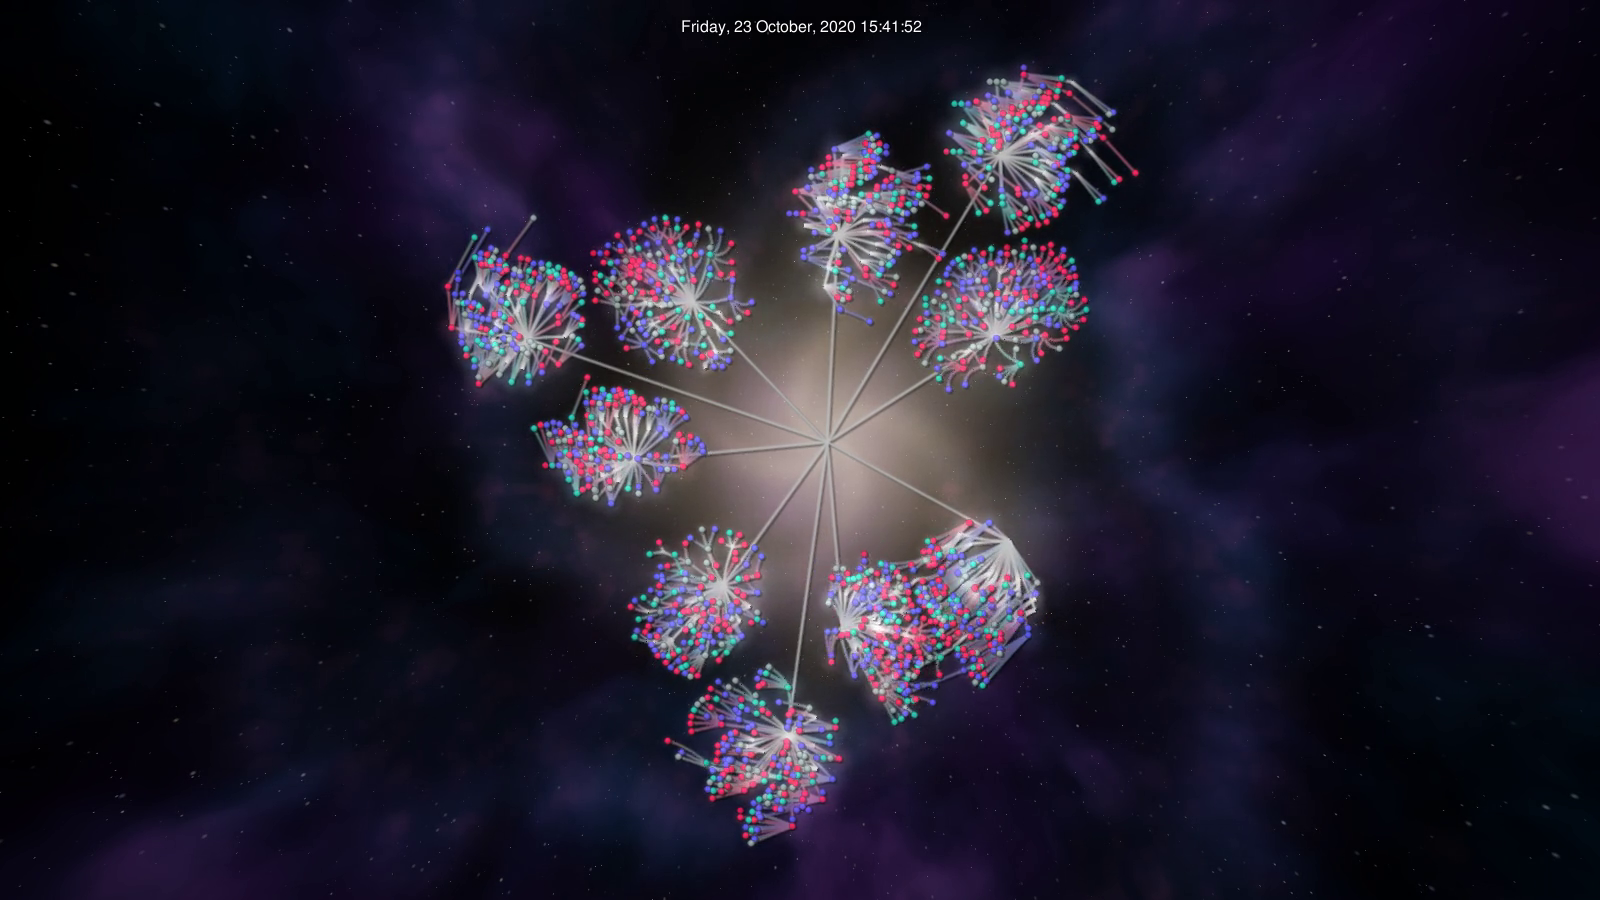
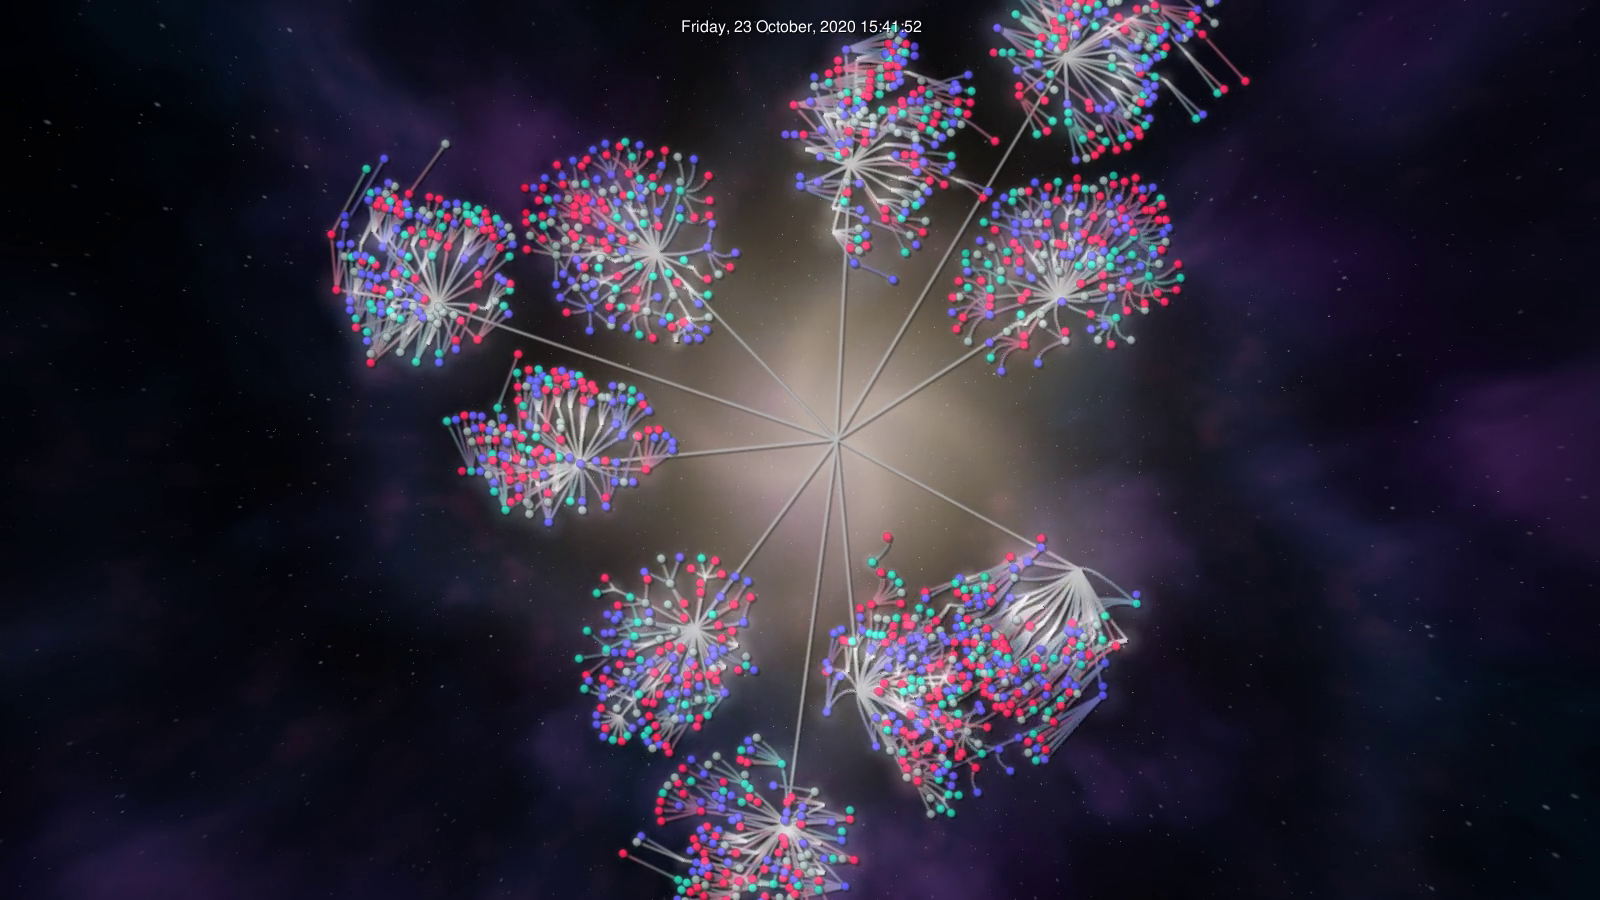
Remove orbit/tilt 3D view; keep top-down nebula and arm layout
Right-drag rotates the tree again. Drops --galaxy-tilt/--galaxy-orbit, the
tilted screenshots and the tilt GIF.

diff --git a/src/src/gource_settings.cpp b/src/src/gource_settings.cpp
@@ -119,8 +119,6 @@ if(extended_help) {
     printf("  --galaxy-pull FLOAT      How hard dirs are pulled onto an arm (default: 1.5)\n");
     printf("  --galaxy-width FLOAT     Half width of an arm in radians (default: 0.28)\n");
     printf("  --galaxy-spin FLOAT      Rotation of the arms, radians per second (default: 0)\n");
-    printf("  --galaxy-tilt DEGREES    Start tilted away from top-down (right-drag orbits and tilts)\n");
-    printf("  --galaxy-orbit DEGREES   Start orbited around the galaxy\n");
     printf("  --nebula-brightness FLOAT  Brightness of the background (default: 1.0)\n");
     printf("  --no-galaxy              Use the normal Gource layout\n");
     printf("  --no-nebula              Use the normal flat background\n\n");
@@ -307,8 +305,6 @@ GourceSettings::GourceSettings() {
     arg_types["galaxy-pull"]       = "float";
     arg_types["galaxy-width"]      = "float";
     arg_types["galaxy-spin"]       = "float";
-    arg_types["galaxy-tilt"]       = "float";
-    arg_types["galaxy-orbit"]      = "float";
     arg_types["nebula-brightness"] = "float";
 
     arg_types["bloom-intensity"]   = "float";
@@ -1038,20 +1034,6 @@ void GourceSettings::importGourceSettings(ConfFile& conffile, ConfSection* gourc
         if(!entry->hasValue()) conffile.entryException(entry, "specify galaxy-spin (float)");
 
         gGalaxy.spin = entry->getFloat();
-    }
-
-    if((entry = gource_settings->getEntry("galaxy-tilt")) != 0) {
-
-        if(!entry->hasValue()) conffile.entryException(entry, "specify galaxy-tilt (degrees)");
-
-        gGalaxy.pitch = entry->getFloat();
-    }
-
-    if((entry = gource_settings->getEntry("galaxy-orbit")) != 0) {
-
-        if(!entry->hasValue()) conffile.entryException(entry, "specify galaxy-orbit (degrees)");
-
-        gGalaxy.yaw = entry->getFloat();
     }
 
     if((entry = gource_settings->getEntry("nebula-brightness")) != 0) {

diff --git a/src/src/galaxy.cpp b/src/src/galaxy.cpp
@@ -20,8 +20,6 @@ GalaxyConfig::GalaxyConfig() {
     spin       = 0.0f;
     brightness = 1.0f;
     time       = 0.0f;
-    yaw        = 0.0f;
-    pitch      = 0.0f;
 }
 
 //---------------------------------------------------------------- layout
@@ -95,8 +93,8 @@ static const char* GALAXY_VERT =
     "void main() { gl_Position = gl_Vertex; }\n";
 
 // A volume raymarched through the real Gource camera. The galaxy lies in the
-// z = 0 plane of the world, the same plane the tree is laid out in, so orbiting
-// or tilting the camera shows a proper 3D disc with a bulge and dust lanes,
+// z = 0 plane of the world, the same plane the tree is laid out in, so a camera looking down on it
+// sees a disc with a bulge and dust lanes,
 // and the arms stay under the directories that follow them.
 static const char* GALAXY_FRAG =
     "#version 120\n"
@@ -157,7 +155,7 @@ static const char* GALAXY_FRAG =
     "    vec3 rd  = normalize(uFwd + ndc.x * uTan.x * uRight + ndc.y * uTan.y * uUp);\n"
     "    vec3 ro  = uCam - vec3(uGC, 0.0);\n"
     "\n"
-    "    // sky: distant gas and stars, fixed in direction so they hold still while you orbit\n"
+    "    // sky: distant gas and stars, fixed in direction so they hold still as the camera moves\n"
     "    float g1 = fbm5(rd * 2.2 + 3.0);\n"
     "    float g2 = fbm5(rd * 4.0 + g1 * 1.6 + 11.0);\n"
     "    vec3 col = vec3(0.0);\n"

diff --git a/src/src/gource.cpp b/src/src/gource.cpp
@@ -364,13 +364,6 @@ void Gource::mouseMove(SDL_MouseMotionEvent *e) {
         //if right mouse button is held while dragging, rotate tree instead of
         //moving camera
 
-        //galaxy mode: right drag orbits and tilts the camera around the galaxy
-        if(rightmouse && gGalaxy.layout) {
-            gGalaxy.yaw   += mag.x * 0.35f;
-            gGalaxy.pitch  = std::max(-80.0f, std::min(80.0f, gGalaxy.pitch + mag.y * 0.35f));
-            return;
-        }
-
         if(rightmouse) {
             manual_rotate = true;
             if(fabs(mag.x) > fabs(mag.y)) {
@@ -2443,10 +2436,7 @@ void Gource::draw(float t, float dt) {
         return;
     }
 
-    //the orbit/tilt is applied after the frustum is built, so widen it while tilted
-    float frustum_fov = std::min(150.0f, camera.getFOV() + fabsf(gGalaxy.pitch) * 1.2f);
-
-    Frustum frustum(camera.getPos(), camera.getTarget(), camera.getUp(), frustum_fov, camera.getZNear(), camera.getZFar());
+    Frustum frustum(camera.getPos(), camera.getTarget(), camera.getUp(), camera.getFOV(), camera.getZNear(), camera.getZFar());
 
     trace_time = SDL_GetTicks();
 

diff --git a/src/src/zoomcamera.cpp b/src/src/zoomcamera.cpp
@@ -16,7 +16,6 @@
 */
 
 #include "zoomcamera.h"
-#include "galaxy.h"
 
 ZoomCamera::ZoomCamera() {
 }
@@ -80,17 +79,6 @@ void ZoomCamera::lookAt(const vec3& target) {
 
 void ZoomCamera::focus() {
     display.mode3D(fov, znear, zfar);
-
-    //orbit and tilt around the point the camera looks at. This acts in view
-    //space, so it has to go in before the look-at matrix.
-    if(gGalaxy.yaw != 0.0f || gGalaxy.pitch != 0.0f) {
-        float d = glm::length(pos - target);
-
-        glTranslatef(0.0f, 0.0f, -d);
-        glRotatef(gGalaxy.pitch, 1.0f, 0.0f, 0.0f);
-        glRotatef(gGalaxy.yaw,   0.0f, 0.0f, 1.0f);
-        glTranslatef(0.0f, 0.0f, d);
-    }
 
     look();
 }

diff --git a/src/src/galaxy.h b/src/src/galaxy.h
@@ -20,8 +20,6 @@ struct GalaxyConfig {
     float spin;        // arm rotation speed (radians per second)
     float brightness;  // nebula brightness multiplier
     float time;        // accumulated simulation time
-    float yaw;         // camera orbit around the galaxy, degrees
-    float pitch;       // camera tilt away from top-down, degrees
 
     GalaxyConfig();
 };

diff --git a/README.md b/README.md
@@ -2,15 +2,13 @@
 
 <p align="center">
   <b>Your repository as a spiral galaxy.</b><br>
-  A fork of <a href="https://gource.io">Gource 0.53</a> with a raymarched 3D nebula background,<br>
-  spiral-arm directory layout, and a camera you can orbit and tilt.
+  A fork of <a href="https://gource.io">Gource 0.53</a> with a procedural nebula background<br>
+  and a spiral-arm directory layout.
 </p>
 
-<p align="center"><img src="docs/images/demo.gif" width="640" alt="Gource Galaxy tilting over a project"></p>
+<p align="center"><img src="docs/images/demo.gif" width="640" alt="Gource Galaxy growing a project"></p>
 
-| Top-down | Tilted 55° | Nearly edge-on |
-|---|---|---|
-| <img src="docs/images/top.png"> | <img src="docs/images/tilt.png"> | <img src="docs/images/edge.png"> |
+<p align="center"><img src="docs/images/top.png" width="800"></p>
 
 > Stock Gource for comparison: [docs/images/stock.png](docs/images/stock.png)
 
@@ -22,16 +20,16 @@ Everything Gource does still works: git, svn, hg, bzr and custom logs, video out
 
 ### 1. A volumetric galaxy background
 
-The background is a fragment shader that raymarches a 3D density field through **Gource's real camera matrices**. It is not a flat image behind the scene.
+The background is a fragment shader that raymarches a density field through **Gource's real camera**, so it zooms and pans with the tree. It is not a flat image behind the scene.
 
 - A thin, flared **disc** with exponential falloff in radius and height
 - A glowing **bulge** core
-- **Spiral arms** from a logarithmic spiral, warped with 3D noise so they look clumpy rather than geometric
+- **Spiral arms** from a logarithmic spiral, warped with noise so they look clumpy rather than geometric
 - **Dust lanes** on the inner edge of each arm that absorb the light behind them
 - Pink **star-forming knots** inside the arms, warm yellow-white inner stars and blue outer arms
-- A **skybox** of distant gas clouds and three layers of twinkling stars, fixed in direction so they hold still while you orbit
+- Distant gas clouds and three layers of twinkling stars
 
-The volume lives in the same plane as the tree (world `z = 0`), so tilting the camera shows a proper 3D disc with the tree sitting on it.
+The galaxy lies in the same plane as the tree (world `z = 0`), so the arms sit underneath the directories that follow them.
 
 ### 2. Spiral-arm layout
 
@@ -45,14 +43,10 @@ angle = arm_angle + twist * ln(1 + depth * 80 / r0)
 
 It deliberately does *not* depend on where the directory currently is. An earlier version aimed at the arm angle for the directory's current radius. Growing branches then chased a moving target and swung around like orbiting blobs. Depth-based targets keep the layout still.
 
-### 3. Orbit and tilt
-
-**Right-drag** orbits and tilts the camera around whatever it is looking at. The background reads the camera from the live modelview matrix, so it stays correct at any angle. Right-drag used to rotate the tree; `--no-galaxy` restores that.
-
-### 4. Calmer defaults
+### 3. Calmer defaults
 
 - Bloom is lower (`--bloom-multiplier 0.6`, `--bloom-intensity 0.5`) so dense directories don't blow out to white.
-- Auto-rotate is off in galaxy mode, because it spins the whole tree and fights the arms.
+- Auto-rotate is off in galaxy mode, because it spins the whole tree and fights the arms. Right-drag still rotates the tree by hand.
 
 ---
 
@@ -79,10 +73,8 @@ gource-galaxy.bat demo.log
 | `--galaxy-pull F` | `1.5` | How hard directories are pulled onto an arm |
 | `--galaxy-width F` | `0.28` | Half width of an arm in radians. No pull inside it |
 | `--galaxy-spin F` | `0` | Rotation of the arm pattern, radians per second |
-| `--galaxy-tilt DEG` | `0` | Start tilted away from top-down |
-| `--galaxy-orbit DEG` | `0` | Start orbited around the galaxy |
 | `--nebula-brightness F` | `1.0` | Background brightness |
-| `--no-galaxy` | | Stock layout and right-drag rotation |
+| `--no-galaxy` | | Stock layout (auto-rotate comes back) |
 | `--no-nebula` | | Stock flat background |
 
 Run `gource --help -H` for the full list.
@@ -97,8 +89,6 @@ Six arms with a tighter twist (`--galaxy-arms 6 --galaxy-twist 2.6`):
 gource.exe C:\path\to\repo -1920x1080 -r 60 --output-ppm-stream - ^
   | ffmpeg -y -r 60 -f image2pipe -vcodec ppm -i - -c:v libx264 -pix_fmt yuv420p galaxy.mp4
 ```
-
-Use `--galaxy-tilt` and `--galaxy-orbit` to pick the viewing angle, since right-drag only works in the live window.
 
 ---
 
@@ -129,15 +119,13 @@ Notes:
 |---|---|
 | `src/src/galaxy.h`, `galaxy.cpp` | New. Layout force, arm assignment, the background shader and its camera plumbing |
 | `src/src/dirnode.cpp` | Calls `galaxyForce` from `applyForces` |
-| `src/src/zoomcamera.cpp` | Orbit and tilt applied in view space, before the look-at |
-| `src/src/gource.cpp` | Draws the background, feeds it the camera and galaxy radius, right-drag orbit |
+| `src/src/gource.cpp` | Draws the background, feeds it the camera and galaxy radius |
 | `src/src/gource_settings.cpp` | New options, dimmer bloom defaults, `extension()` fix |
 
 ## Known issues
 
 - With few, large top-level directories you get a ring of clusters around the core more than long arms. The background arms are the main spiral cue. More top-level directories, `--galaxy-pull` and `--galaxy-width` help.
 - The background arms follow a spiral in world radius, while the layout aims by directory depth, so the two line up loosely rather than exactly.
-- Mouse hover and click picking are not corrected for tilt, so they can be off when tilted.
 - The raymarcher costs GPU time at high resolutions. 1080p is fine on a mid-range card; 4K recording wants something stronger.
 - Tested on Windows 11 only.
 
